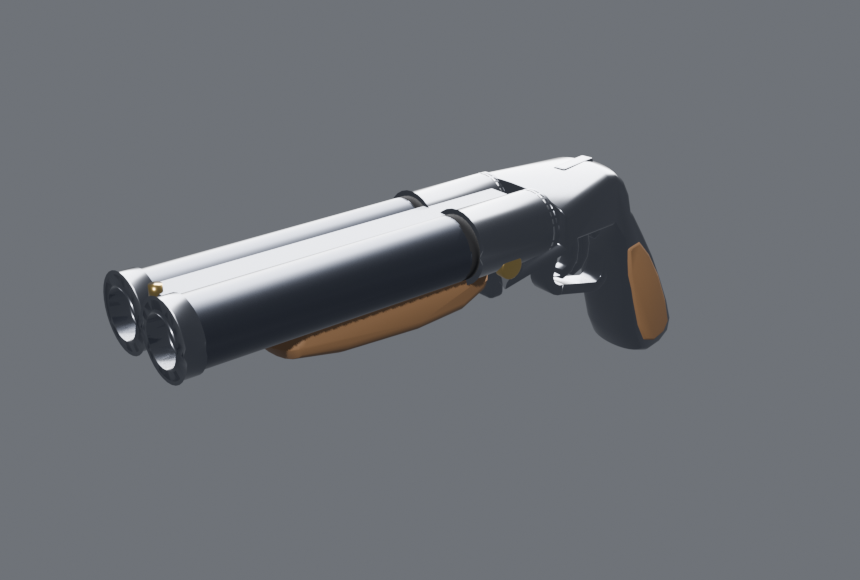
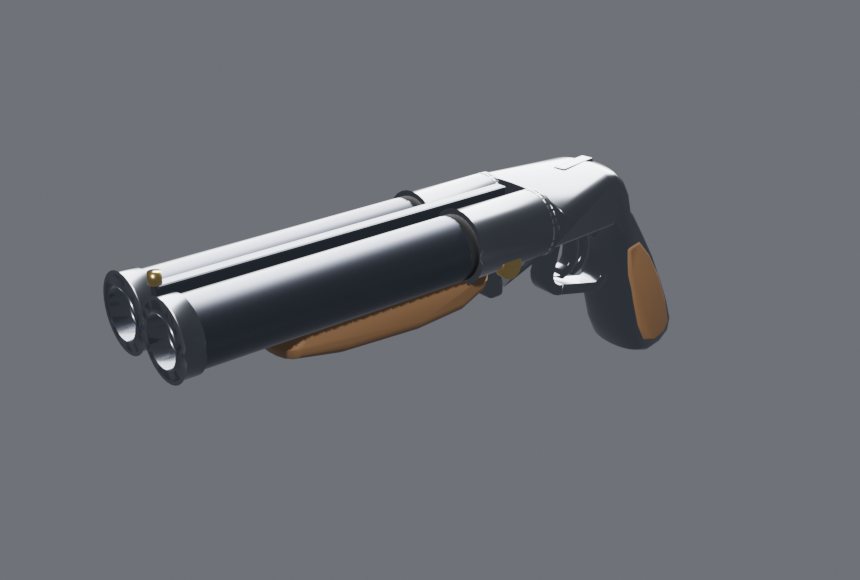
shorty: rib as a valley strip, flats under the tubes — nothing solid in the open bores
The top rib's underside was 9 mm from each bore axis, inside the 18 mm
hollow, and showed through the open mouths as a rectangle. It is now a
10 mm strip in the valley with its floor at z 0.006 (18.1 mm from an
axis), top flush with the tubes; bead raised to match. The action
flats are a constant 0.040 half-width so they sit under the tubes'
bulge when shut and read as a slim bar when open -- the ramped tray's
side face had read as a one-sided "shelf" from the FPV roll. Loft
symmetry checked with open-action renders from both sides. 13754 tris,
model gate OK, shorty gate green.

Changed region(s): [[0.1512, 0.3103, 0.6047, 0.5276], [0.5744, 0.4655, 0.6349, 0.4966]]

diff --git a/scripts/model_grapeshot_shorty.py b/scripts/model_grapeshot_shorty.py
@@ -315,9 +315,15 @@ for i,x in enumerate((-XSEP,XSEP)):
     plug_len = HOLLOW_BACK - PLUG_FRONT             # the front bores still have depth
     put(cyl(RI*0.99,plug_len),f'bore{i}','Bore',loc=(x,HOLLOW_BACK-plug_len/2,0),rot=(RY,0,0),bevel=0,smooth=True)
 # The rib runs the full barrel assembly, breech to muzzle.
-put(box(XSEP*2.0,(CY1-BY_MUZZLE)*0.94,0.010),'rib_top','Blue',
-    loc=(0,(BY_MUZZLE+CY1)/2,RO*0.62),bevel=0.0016,segs=2)
-put(cyl(0.0042,0.0075,14),'bead','Brass',loc=(0,BY_MUZZLE+0.010,RO*0.62+0.006),bevel=0,smooth=True)
+# The rib is a narrow STRIP in the valley between the tubes, not a slab across
+# their tops. The 47 mm x 10 mm box at z 0.014 reached 9 mm from each bore
+# axis -- inside the 18 mm chamber interior -- and showed through the open
+# mouths as a rectangle (owner, 2026-09-04: "the bar that runs between both
+# barrels"). 10 mm wide with its floor at z 0.006, the nearest point to an
+# axis is 18.1 mm: outside the hollow, and its top is flush with the tubes.
+put(box(0.010,(CY1-BY_MUZZLE)*0.94,0.018),'rib_top','Blue',
+    loc=(0,(BY_MUZZLE+CY1)/2,0.015),bevel=0.0016,segs=2)
+put(cyl(0.0042,0.0075,14),'bead','Brass',loc=(0,BY_MUZZLE+0.010,0.024+0.0037),bevel=0,smooth=True)
 
 # --------- THE LOFTED BODY: breech -> top strap -> rounded back -> grip --------
 # Half-width taper. Wide enough at the breech to carry both barrels, narrowing
@@ -330,14 +336,15 @@ def HW(y):
     # barrels seat AGAINST this face) and the reason the open action read as
     # misaligned even though every part is centred on 0.00000 exactly.
     # 0.050 clears the cluster by 2.5 mm. The grip end is untouched.
-    if y <= -0.034:
-        # THE ACTION FLATS narrow toward the hinge knuckle. At a constant 0.050
-        # the tray's top corners stood 2.5 mm proud of the chamber tubes, and
-        # with the action open the front-left corner read as a triangular
-        # flange jutting off the receiver (owner, 2026-09-04). Under 0.047 the
-        # tray sits inside the tubes' bulge when shut and is a slim bar open.
-        t = min(1.0, (-0.034 - y) / 0.044)
-        return 0.050 + (0.040-0.050) * (t*t*(3-2*t))
+    if y <= -0.033:
+        # THE ACTION FLATS are narrower than the chamber cluster along their
+        # whole length. At 0.050 (then tapering from 0.050) the tray's edge
+        # stood proud of the tubes near the breech face, and from the FPV
+        # angle its ramped side face read as a triangular shelf on the near
+        # side of the receiver (owner, 2026-09-04). At 0.040 it is under the
+        # tubes' bulge (edge at +-0.047 at this height) when shut and a slim
+        # bar when open. The standing breech behind stays 0.050 to carry them.
+        return 0.040
     if y <= -0.020: return 0.050
     if y >=  0.058: return 0.026
     t = (y + 0.020) / 0.078

diff --git a/docs/dev-notes/2026-09-04-shell-reload/notes.md b/docs/dev-notes/2026-09-04-shell-reload/notes.md
@@ -141,3 +141,22 @@ changes:
   the exporter splits it into `t004`/`t004_1` primitives, verified live).
 
 13782 tris. Mouths after: `round3-mouths-clean.png`; model: `model-threequarter.png`.
+
+## Round 4 — the rib in the bore, and the "asymmetric" receiver
+
+Owner after the merge: a rectangle still visible in the empty tubes, "from the
+bar that runs between both barrels"; and the receiver reads asymmetric — a
+triangular shelf on the FPV-left side, smooth on the right.
+
+* **The rib.** `rib_top` was a 47 × 10 mm box at z 0.014 spanning both tube
+  tops; its underside was 9 mm from each bore axis, inside the 18 mm hollow,
+  so it showed through the open mouths. Now a 10 mm strip in the valley with
+  its floor at z 0.006 (nearest point to an axis 18.1 mm) and its top flush
+  with the tubes; bead raised to match. `round4-mouths.png`.
+* **The shelf.** The loft is mirror-symmetric in x by construction (checked
+  with open-action renders from both sides, `side-L.png` / `side-R.png`:
+  mirror images). What read as one-sided was the ramped tray's side face in
+  profile, visible on the near side of the rolled gun and hidden behind the
+  tubes on the far side. The tray is now a constant 0.040 half-width — under
+  the tubes' bulge (edge ±0.047 at that height) when shut, a slim bar when
+  open — so there is no shelf to see on either side. 13754 tris.

diff --git a/TASKS.md b/TASKS.md
@@ -118,7 +118,12 @@ same class of bug: cases handled in RIG space with no idea where the bore was.
   it by hand). Flats now ramp −0.004 → −0.022 toward the knuckle and taper in
   width; the bore plug starts at `HOLLOW_DEPTH` 27 mm (gate asserts that);
   chamber inner wall is matte `Bore` via a second material slot. Owner:
-  "other than that I think I like this, think it can be merged".
+  "other than that I think I like this, think it can be merged". Merged to
+  main `6c783f2`. **Round 4 (post-merge):** the top rib's underside was inside
+  the hollow chambers (showed as a rectangle in the empty bores) — now a 10 mm
+  valley strip; the "asymmetric shelf" was the ramped tray's side face seen on
+  the near side only (loft is symmetric; both-side renders in the notes) —
+  tray now a constant 0.040 half-width under the tubes.
 
 **[ ] F-arm.1 — the FPV forearms should resemble the goblin SDF character.**
 Owner, 2026-09-04: "the arm itself probably needs some work to more
